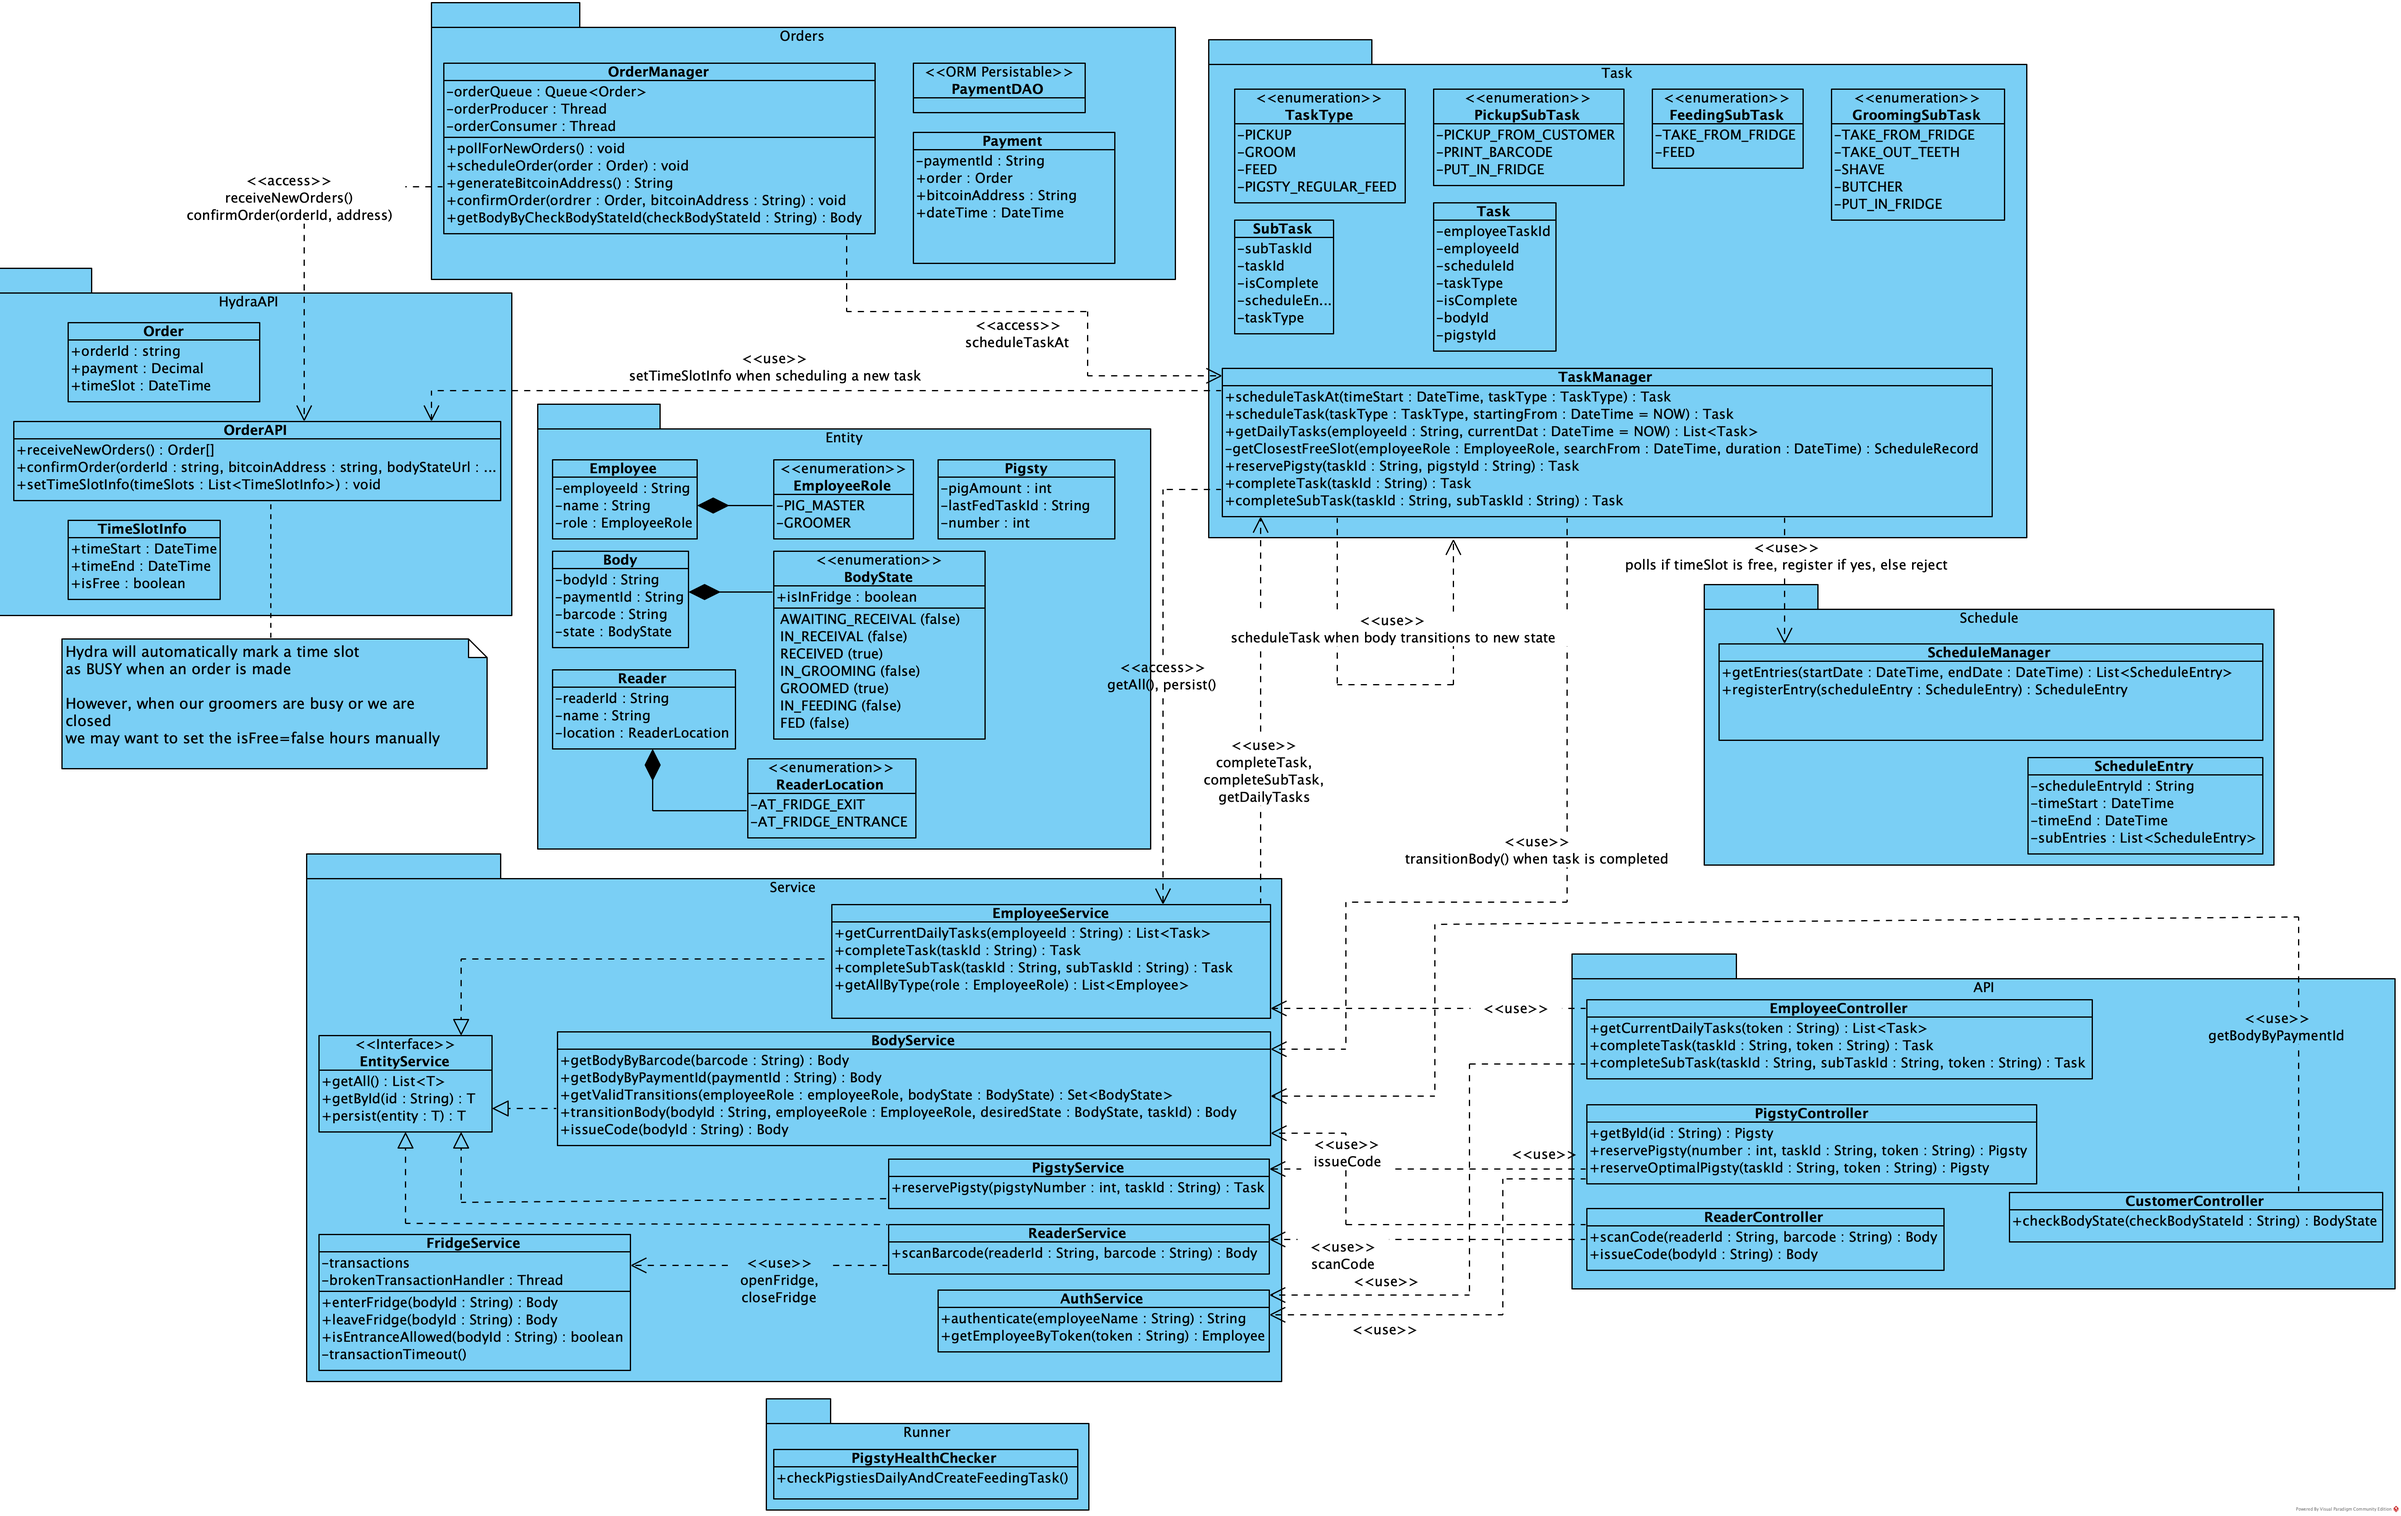
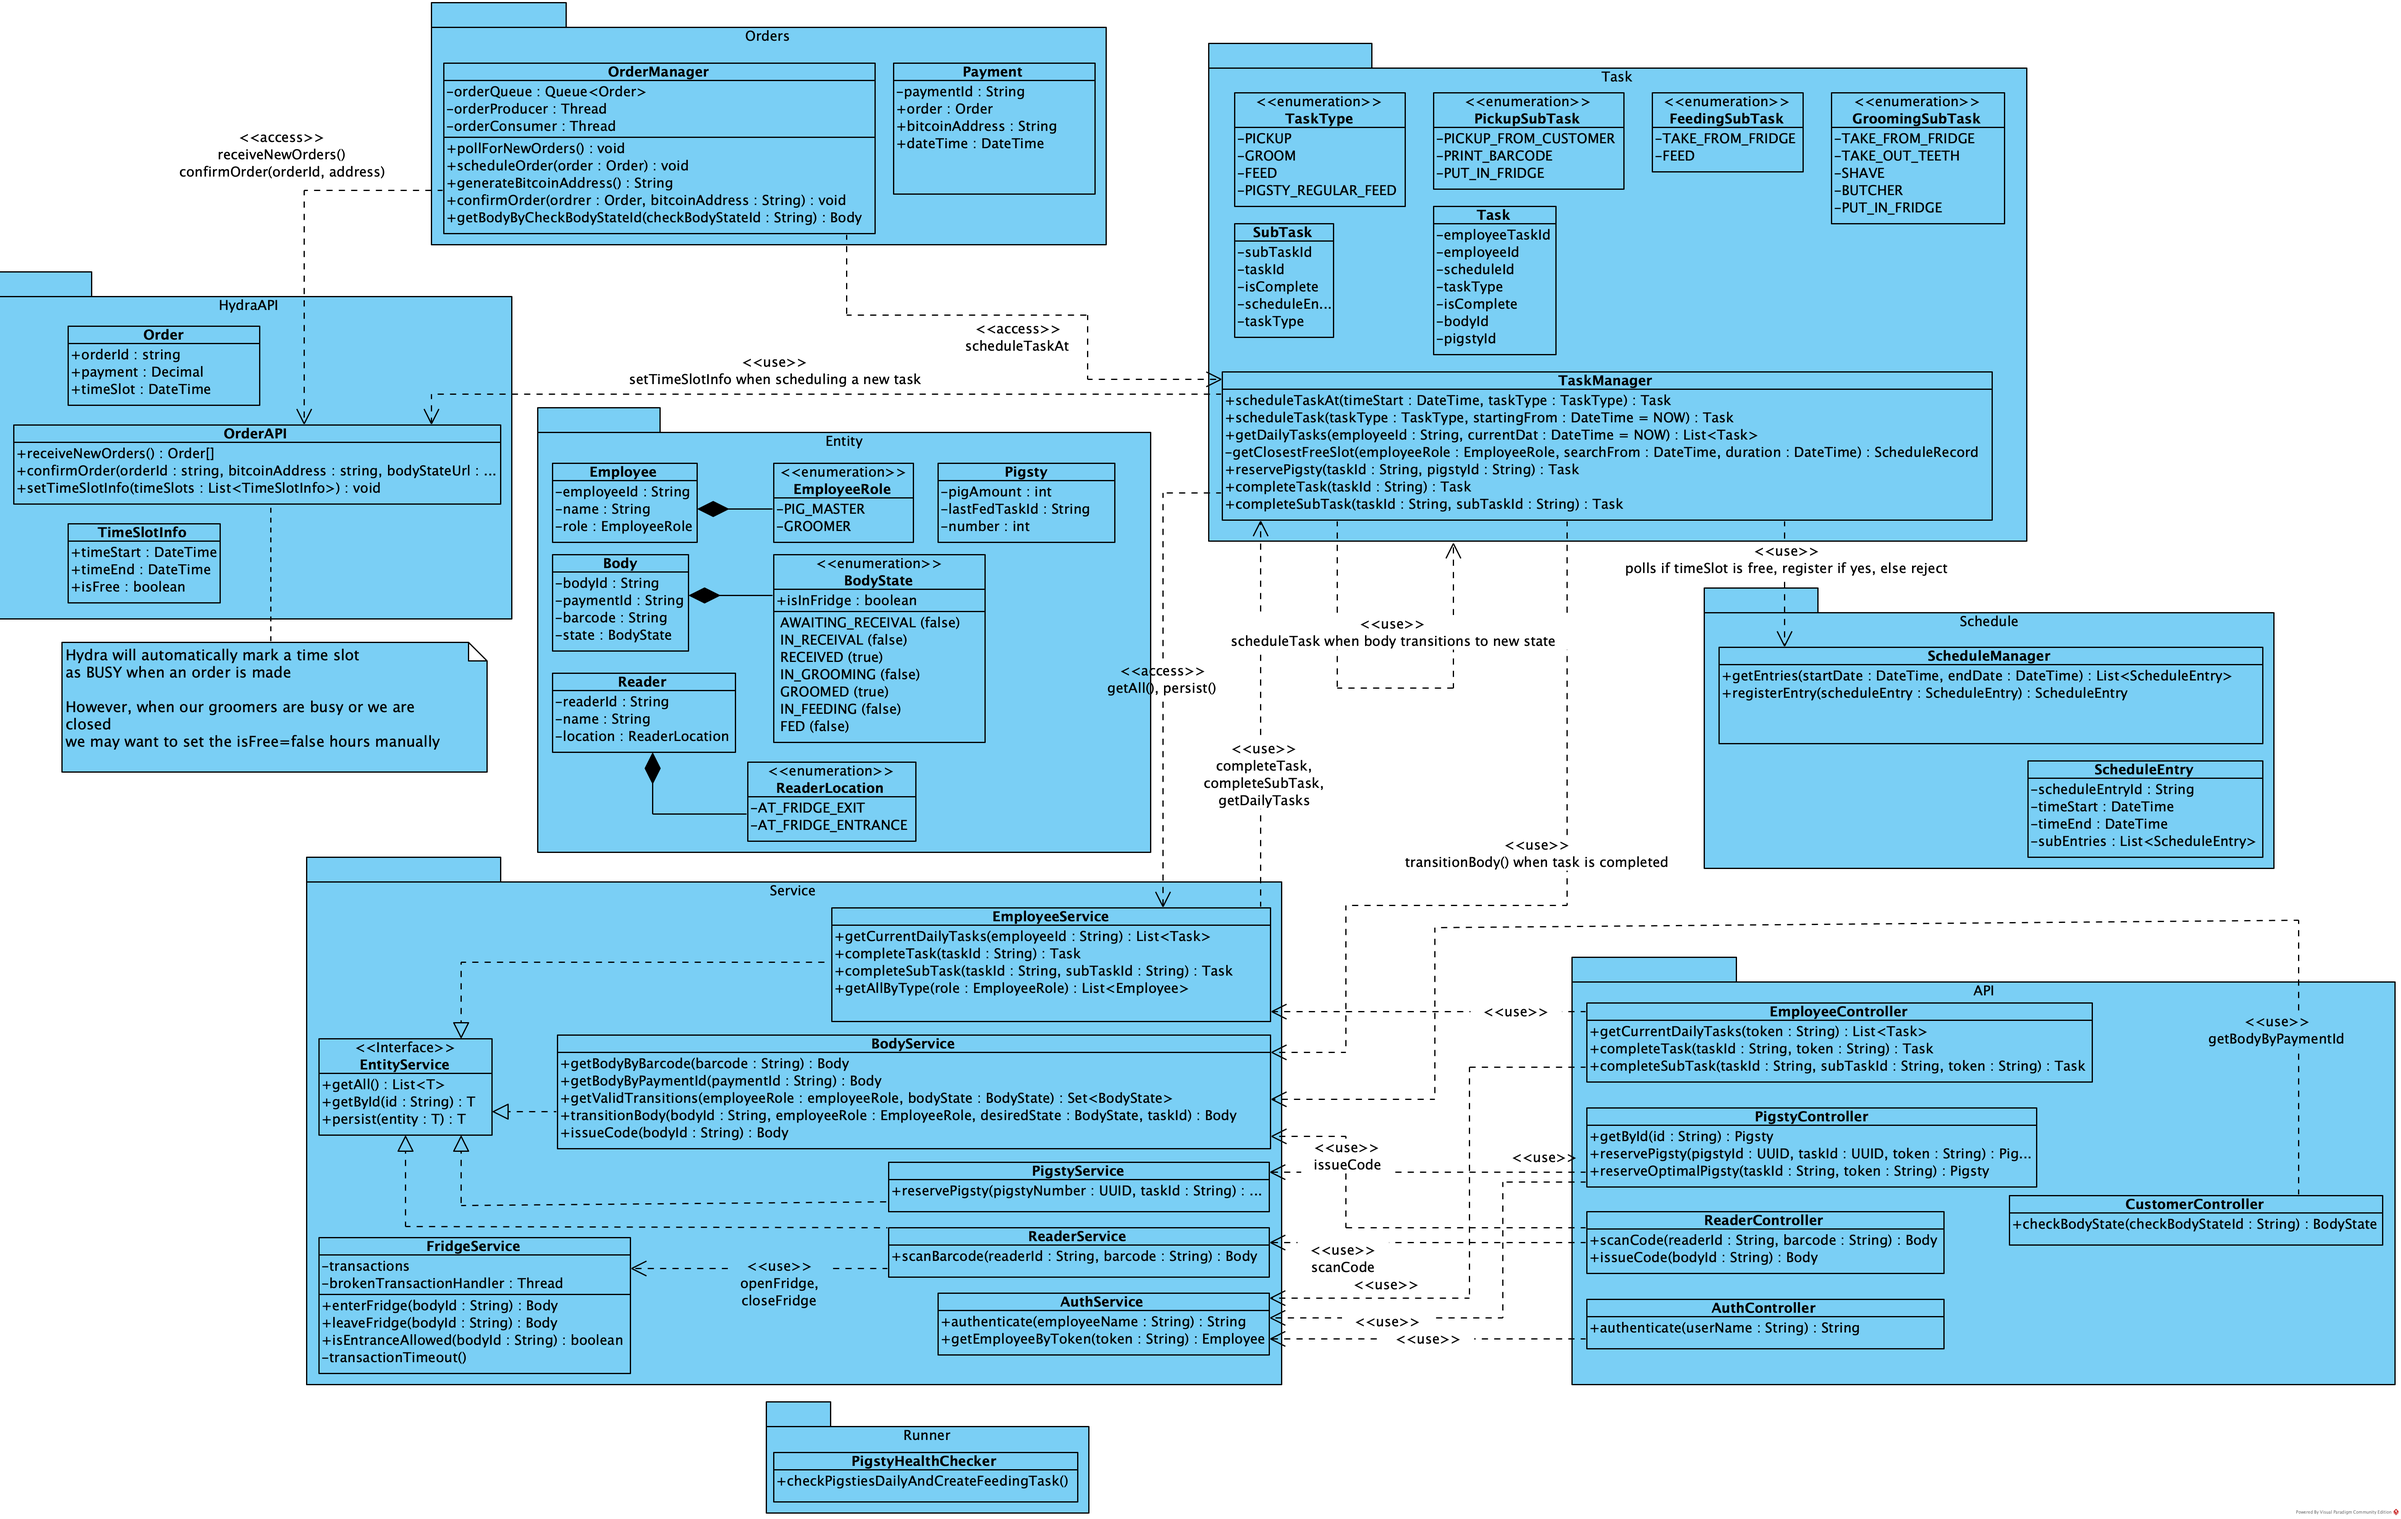
PigstyService impl + tests

diff --git a/backend/src/test/java/com/itmo/mse/soft/RepositoryTests.java b/backend/src/test/java/com/itmo/mse/soft/RepositoryTests.java
@@ -16,6 +16,7 @@ import org.springframework.boot.test.context.SpringBootTest;
 import java.math.BigDecimal;
 import java.time.Instant;
 import java.util.Collections;
+import java.util.UUID;
 import java.util.stream.Collectors;
 import java.util.stream.IntStream;
 
@@ -40,6 +41,23 @@ public class RepositoryTests {
     private OrderRepository orderRepository;
     @Autowired
     private PaymentRepository paymentRepository;
+    @Autowired
+    private TestHelper testHelper;
+
+    Body createBody() {
+        return Body.builder()
+                .payment(
+                        Payment.builder()
+                                .order(
+                                        Order.builder()
+                                        .paymentInstant(Instant.now())
+                                        .paymentAmount(new BigDecimal("556.00")).build()
+                                ).creationInstant(Instant.now())
+                                .bitcoinAddress("asdjkasdjkasdkj").build()
+                ).state(BodyState.RECEIVED)
+                .barcode(UUID.randomUUID().toString())
+                .build();
+    }
 
     @Test
     void savesAndLoadsBody() {
@@ -268,5 +286,58 @@ public class RepositoryTests {
         assertThat(loadedSubTask.getParent().getTaskId()).isEqualByComparingTo(task.getTaskId());
 
         assertThat(loadedSubTask.getScheduleEntry().getParent()).isNotNull();
+    }
+
+    @Test
+    void shouldFindTaskInBetween() {
+        var pigsty = Pigsty.builder()
+                .pigstyNumber(123)
+                .pigAmount(30).build();
+        pigstyRepository.save(pigsty);
+
+        var employee = Employee.builder()
+                .name("vasya")
+                .employeeRole(EmployeeRole.PIG_MASTER)
+                .build();
+        employeeRepository.save(employee);
+
+        var entry = ScheduleEntry.builder()
+                .timeStart(testHelper.getDayAt(3, 12, 2020))
+                .timeEnd(testHelper.getDayAt(5, 12, 2020))
+                .build();
+
+        var body = createBody();
+        bodyRepository.save(body);
+
+        var task = Task.builder()
+                .taskType(TaskType.FEED)
+                .isComplete(false)
+                .employee(employee)
+                .pigsty(pigsty)
+                .body(body)
+                .scheduleEntry(entry).build();
+
+        taskRepository.save(task);
+
+        assertThat(taskRepository.existsTaskByTimeAndPigsty(
+                testHelper.getDayAt(4, 12, 2020),
+                testHelper.getDayAt(6, 12, 2020),
+                pigsty.getPigstyId())
+        ).isTrue();
+        assertThat(taskRepository.existsTaskByTimeAndPigsty(
+                testHelper.getDayAt(2, 12, 2020),
+                testHelper.getDayAt(4, 12, 2020),
+                pigsty.getPigstyId()
+        )).isTrue();
+        assertThat(taskRepository.existsTaskByTimeAndPigsty(
+                testHelper.getDayAt(1, 12, 2020),
+                testHelper.getDayAt(2, 12, 2020),
+                pigsty.getPigstyId()
+        )).isFalse();
+        assertThat(taskRepository.existsTaskByTimeAndPigsty(
+                testHelper.getDayAt(7, 12, 2020),
+                testHelper.getDayAt(8, 12, 2020),
+                pigsty.getPigstyId()
+        )).isFalse();
     }
 }

diff --git a/backend/src/test/java/com/itmo/mse/soft/service/PigstyServiceTests.java b/backend/src/test/java/com/itmo/mse/soft/service/PigstyServiceTests.java
@@ -1,0 +1,88 @@
+package com.itmo.mse.soft.service;
+
+import com.itmo.mse.soft.TestHelper;
+import com.itmo.mse.soft.entity.Pigsty;
+import com.itmo.mse.soft.repository.BodyRepository;
+import com.itmo.mse.soft.repository.EmployeeRepository;
+import com.itmo.mse.soft.repository.PigstyRepository;
+import com.itmo.mse.soft.repository.TaskRepository;
+import com.itmo.mse.soft.schedule.ScheduleEntry;
+import com.itmo.mse.soft.task.Task;
+import com.itmo.mse.soft.task.TaskType;
+import org.junit.jupiter.api.Test;
+import org.springframework.beans.factory.annotation.Autowired;
+import org.springframework.boot.test.context.SpringBootTest;
+
+import static org.assertj.core.api.Assertions.assertThat;
+
+@SpringBootTest
+public class PigstyServiceTests {
+
+    @Autowired
+    PigstyService pigstyService;
+
+    @Autowired
+    PigstyRepository pigstyRepository;
+
+    @Autowired
+    TaskRepository taskRepository;
+
+    @Autowired
+    EmployeeRepository employeeRepository;
+
+    @Autowired
+    BodyRepository bodyRepository;
+
+    @Autowired
+    TestHelper testHelper;
+
+    @Test
+    void contextLoads() {}
+
+    @Test
+    void shouldReservePigsty() {
+        var employee = testHelper.createEmployee();
+        var body = testHelper.createBody();
+        employeeRepository.save(employee);
+        bodyRepository.save(body);
+
+        var scheduleEntry = ScheduleEntry.builder()
+                .timeStart(testHelper.getTimeAt(10, 0))
+                .timeEnd(testHelper.getTimeAt(12, 0))
+                .build();
+        var task = Task.builder()
+                .scheduleEntry(scheduleEntry)
+                .body(body)
+                .employee(employee)
+                .taskType(TaskType.FEED)
+                .build();
+
+        taskRepository.save(task);
+
+        var pigsty = Pigsty.builder()
+                .pigAmount(32)
+                .pigstyNumber(39391)
+                .build();
+
+        pigstyRepository.save(pigsty);
+
+        pigstyService.reservePigsty(pigsty, task);
+        assertThat(task.getPigsty()).isEqualToComparingFieldByField(pigsty);
+
+        var otherTask = Task.builder()
+                .scheduleEntry(
+                        ScheduleEntry.builder()
+                        .timeStart(testHelper.getTimeAt(11, 30))
+                        .timeEnd(testHelper.getTimeAt(13, 30))
+                        .build()
+                ).body(body)
+                .employee(employee)
+                .taskType(TaskType.FEED)
+                .build();
+        taskRepository.save(otherTask);
+
+        pigstyService.reservePigsty(pigsty, otherTask);
+        assertThat(otherTask.getPigsty()).isNull();
+    }
+
+}

diff --git a/backend/src/main/java/com/itmo/mse/soft/service/PigstyService.java b/backend/src/main/java/com/itmo/mse/soft/service/PigstyService.java
@@ -1,4 +1,57 @@
 package com.itmo.mse.soft.service;
 
-public class PigstyService {
+import com.itmo.mse.soft.entity.Pigsty;
+import com.itmo.mse.soft.repository.PigstyRepository;
+import com.itmo.mse.soft.repository.TaskRepository;
+import com.itmo.mse.soft.task.Task;
+import com.itmo.mse.soft.task.TaskType;
+import lombok.extern.slf4j.Slf4j;
+import org.springframework.beans.factory.annotation.Autowired;
+import org.springframework.data.repository.CrudRepository;
+import org.springframework.stereotype.Service;
+
+import java.util.UUID;
+
+@Slf4j
+@Service
+public class PigstyService extends EntityService<Pigsty> {
+
+    @Autowired
+    private PigstyRepository pigstyRepository;
+    @Autowired
+    private TaskRepository taskRepository;
+
+    @Override
+    protected CrudRepository<Pigsty, UUID> getEntityRepository() {
+        return pigstyRepository;
+    }
+
+    public Task reservePigsty(UUID pigstyId, UUID taskId) {
+        var pigsty = pigstyRepository.findById(pigstyId).orElseThrow();
+        var task = taskRepository.findById(taskId).orElseThrow();
+        return reservePigsty(pigsty, task);
+    }
+
+    public Task reservePigsty(Pigsty pigsty, Task task) {
+        if (task.getTaskType() != TaskType.FEED && task.getTaskType() != TaskType.REGULAR_FEED) {
+            log.warn("Pigsty '{}' is trying to be registered for task '{}', but it is not a feeding one",
+                    pigsty.getPigstyId(), task.getTaskId());
+            return task;
+        }
+        if (taskRepository.existsTaskByTimeAndPigsty(
+                task.getScheduleEntry().getTimeStart(),
+                task.getScheduleEntry().getTimeEnd(),
+                pigsty.getPigstyId()
+        )) {
+            log.info("Pigsty '{}' is already reserved at some task during '{}'--'{}'",
+                    pigsty.getPigstyId(),
+                    task.getScheduleEntry().getTimeStart(),
+                    task.getScheduleEntry().getTimeEnd());
+            return task;
+        }
+
+        task.setPigsty(pigsty);
+        return taskRepository.save(task);
+    }
+
 }

diff --git a/backend/src/test/java/com/itmo/mse/soft/TestHelper.java b/backend/src/test/java/com/itmo/mse/soft/TestHelper.java
@@ -1,0 +1,48 @@
+package com.itmo.mse.soft;
+
+import com.itmo.mse.soft.entity.Body;
+import com.itmo.mse.soft.entity.BodyState;
+import com.itmo.mse.soft.entity.Employee;
+import com.itmo.mse.soft.entity.EmployeeRole;
+import com.itmo.mse.soft.order.Order;
+import com.itmo.mse.soft.order.Payment;
+import org.springframework.stereotype.Service;
+
+import java.math.BigDecimal;
+import java.time.Instant;
+import java.time.LocalDate;
+import java.time.LocalDateTime;
+import java.time.ZoneOffset;
+import java.util.UUID;
+
+@Service
+public class TestHelper {
+
+    public Body createBody() {
+        return Body.builder()
+                .payment(
+                        Payment.builder()
+                                .order(
+                                        Order.builder()
+                                        .paymentInstant(Instant.now())
+                                        .paymentAmount(new BigDecimal("132.50")).build()
+                                ).bitcoinAddress(UUID.randomUUID().toString())
+                                .creationInstant(Instant.now()).build()
+                ).barcode("askdjajskdajksldjaksdjk")
+                .state(BodyState.IN_GROOMING).build();
+    }
+
+    public Employee createEmployee() {
+        return Employee.builder()
+                .name("Vasya")
+                .employeeRole(EmployeeRole.GROOMER).build();
+    }
+
+    public Instant getTimeAt(int hours, int minutes) {
+        return LocalDateTime.of(2020, 12, 5, hours, minutes).toInstant(ZoneOffset.UTC);
+    }
+
+    public Instant getDayAt(int day, int month, int year) {
+        return LocalDate.of(year, month, day).atStartOfDay().toInstant(ZoneOffset.UTC);
+    }
+}

diff --git a/backend/src/main/java/com/itmo/mse/soft/service/BodyService.java b/backend/src/main/java/com/itmo/mse/soft/service/BodyService.java
@@ -87,8 +87,13 @@ public class BodyService extends EntityService<Body> {
                 .employeeRole(employeeRole).bodyState(bodyState).build(), Collections.emptySet());
     }
 
+    public Body transitionBody(UUID bodyId, EmployeeRole employeeRole, BodyState desiredState) {
+        var body = entityRepository.findById(bodyId).orElseThrow();
+        return transitionBody(body, employeeRole, desiredState);
+    }
     public Body transitionBody(Body body, EmployeeRole employeeRole, BodyState desiredState) {
         log.debug("Transitioning body '{}' by '{}' to '{}'", body.getId(), employeeRole, desiredState);
+
         if (!this.getValidTransitions(employeeRole, body.getState()).contains(desiredState)) {
             log.warn("Tried to transition body '{}' by employee '{}' to state '{}' but no valid state found",
                     body.getId(), employeeRole, desiredState);

diff --git a/backend/src/main/java/com/itmo/mse/soft/repository/TaskRepository.java b/backend/src/main/java/com/itmo/mse/soft/repository/TaskRepository.java
@@ -1,9 +1,20 @@
 package com.itmo.mse.soft.repository;
 
 import com.itmo.mse.soft.task.Task;
+import org.springframework.data.jpa.repository.Query;
 import org.springframework.data.repository.CrudRepository;
+import org.springframework.data.repository.query.Param;
 
+import java.time.Instant;
 import java.util.UUID;
 
 public interface TaskRepository extends CrudRepository<Task, UUID> {
+    @Query("select case when count(taskId) > 0 then true else false end from Task " +
+            "where pigsty.pigstyId = :pigstyId and " +
+            "(:to between scheduleEntry.timeStart and scheduleEntry.timeEnd or " +
+            ":from between scheduleEntry.timeStart and scheduleEntry.timeEnd)")
+    boolean existsTaskByTimeAndPigsty(
+            @Param("from") Instant from,
+            @Param("to") Instant to,
+            @Param("pigstyId") UUID pigstyId);
 }

diff --git a/backend/src/main/java/com/itmo/mse/soft/entity/Pigsty.java b/backend/src/main/java/com/itmo/mse/soft/entity/Pigsty.java
@@ -30,7 +30,7 @@ public class Pigsty {
     @Column(nullable = false)
     int pigstyNumber;
 
-    @OneToOne(cascade = CascadeType.MERGE)
+    @OneToOne(fetch = FetchType.LAZY, cascade = CascadeType.MERGE)
     Task lastFedTask;
 
 }
